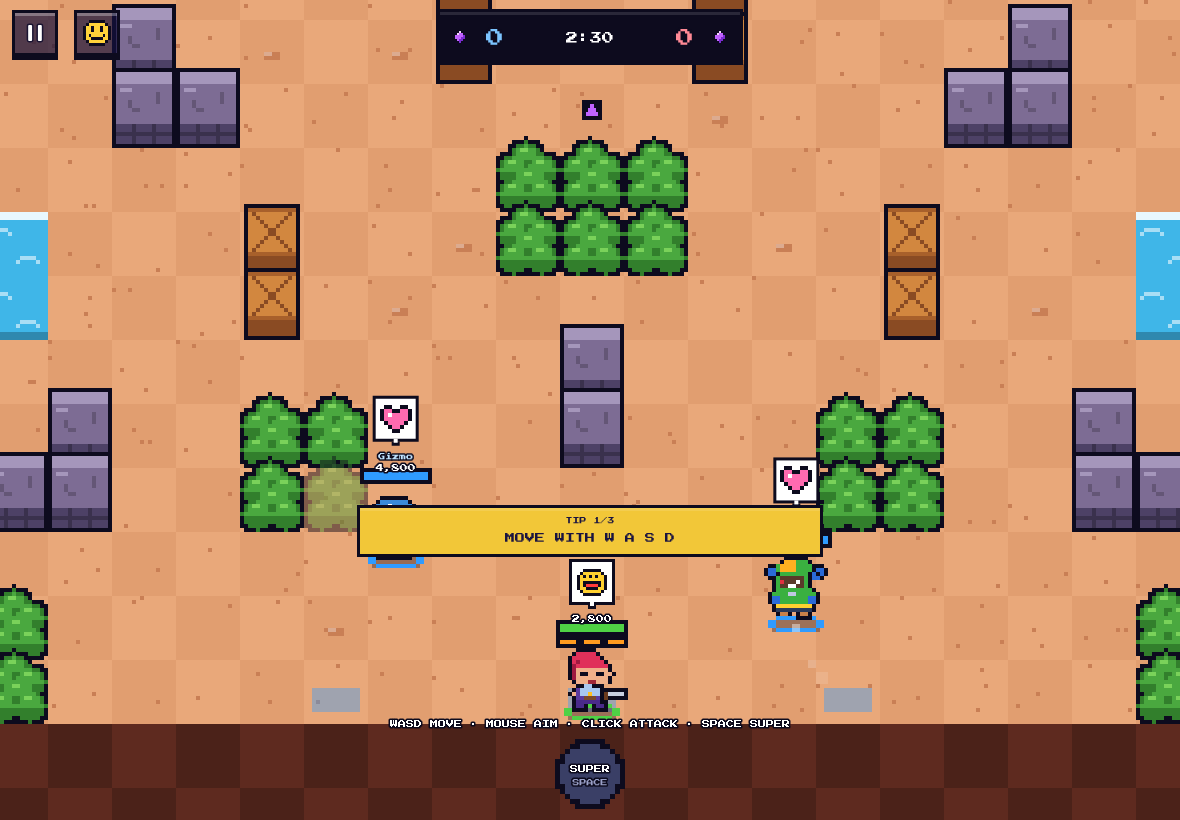
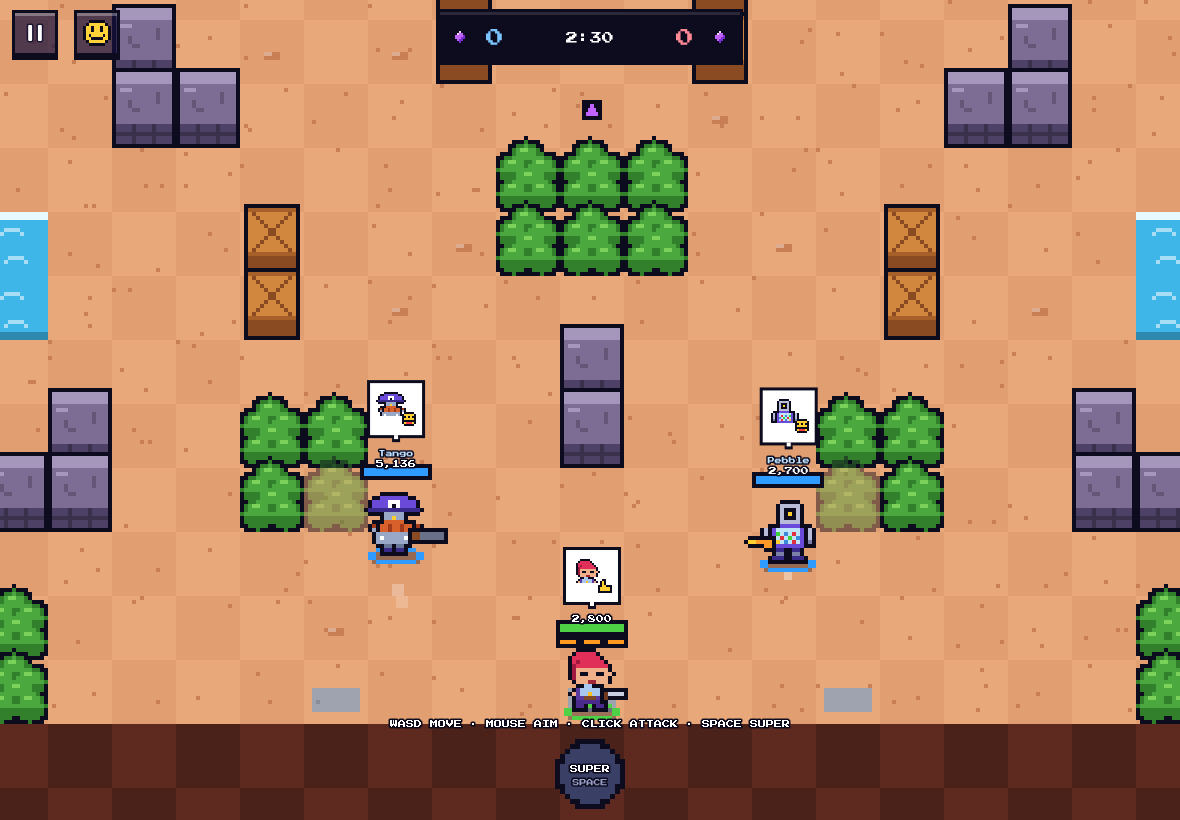
Battle card with prestige and brawler titles, face pins for every brawler, brawlers wave hello
Claude-Session: https://claude.ai/code/session_01FdRq2KxaynozDRfyymzMuF

Changed region(s): [[0.3051, 0.4573, 0.7627, 0.7927], [0.9763, 0.2744, 1.0, 0.3963], [0.0, 0.2744, 0.0305, 0.3963]]

diff --git a/Brawl8Bit.html b/Brawl8Bit.html
@@ -442,6 +442,19 @@ input[type=text]{font-size:13px}
 .bdab .pxi{width:30px} .bdgear .pxi{width:22px} .bdic .pxi{width:26px} .bdst span .pxi{width:20px} .bdheart .pxi{width:26px}
 .aic .pxi{width:20px} .fxabi .pxi{width:28px} .starp b .pxi{width:14px} .bdst em .pxi{width:8px} .fxlvl .pxi,.fxinfo .pxi{width:14px}
 #btnPin .pxi{width:28px}
+#pinBar button{position:relative} #pinBar i,.bdpins i{position:absolute;right:2px;bottom:0;font-family:var(--display);font-size:10px;font-style:normal;color:#2a8a2a;text-shadow:1px 1px 0 #fff}
+.bdpins div{position:relative}
+.bcardx{position:relative;border:6px solid var(--ink);background-size:100% 100%;image-rendering:pixelated;aspect-ratio:3/4;overflow:hidden;box-shadow:0 6px 0 #000}
+.bcx-top{display:flex;justify-content:space-between;align-items:center;padding:8px;background:rgba(13,11,30,.75);border-bottom:4px solid var(--ink)}
+.bcx-top b{font-family:var(--display);font-size:13px;color:#fff;text-shadow:2px 2px 0 #000}
+.bcx-pre{font-family:var(--display);font-size:9px;color:#1a1440;padding:4px 6px;border:3px solid var(--ink)}
+.bcx-title{margin:8px auto 0;width:max-content;max-width:90%;font-family:var(--display);font-size:11px;color:#1a1440;background:#ffc824;border:3px solid var(--ink);padding:4px 8px;text-align:center}
+.bcx-title.off{background:rgba(13,11,30,.6);color:#c9d2ff;font-size:8px}
+.bcx-pic{display:block;width:72%;margin:0 auto;image-rendering:pixelated}
+.bcx-name{position:absolute;left:0;right:0;bottom:70px;text-align:center;font-family:var(--display);font-size:20px;color:#fff;text-shadow:3px 3px 0 #000,-2px -2px 0 #000}
+.bcx-name small{display:block;font-size:10px;color:#ffc93a;margin-top:4px} .bcx-name small svg{width:12px;height:12px}
+.bcx-c1,.bcx-c2{position:absolute;bottom:8px;width:64px;height:auto;border:4px solid var(--ink);image-rendering:pixelated;background:#fff}
+.bcx-c1{left:8px} .bcx-c2{right:8px;height:56px;width:64px}
 </style>
 </head>
 <body>
@@ -622,6 +635,12 @@ input[type=text]{font-size:13px}
     <div class="row" id="bdTabs" style="justify-content:center;margin-bottom:10px"></div>
     <div id="bdBody"></div>
     <div class="btns"><button class="btn grey" id="bdClose">Close</button></div>
+  </div>
+</div>
+<div id="ov-card" class="overlay" hidden>
+  <div class="modal" role="dialog" aria-label="Battle card" style="max-width:420px;background:#1a1440">
+    <div id="cardBody"></div>
+    <div class="btns"><button class="btn grey" id="cardClose">Close</button></div>
   </div>
 </div>
 <div id="ov-confirm" class="overlay" hidden>
@@ -1815,6 +1834,12 @@ const TIPS = {
   bo: 'Throw mines where enemies are coming from, then shoot arrows.',
   pam: 'Stay with your team and heal them with your Super.',
 };
+// each brawler's own title, earned at 1,000 trophies on that brawler
+const BRAWLER_TITLES = { shelly: 'Buckshot Boss', nita: 'Bear Buddy', colt: 'Sharpshooter', bull: 'Bulldozer', primo: 'Luchador', poco: 'Rock Star', brock: 'Rocket Man', jessie: 'Little Inventor',
+  dynamike: 'Boom Boom', spike: 'Prickly Pal', rosa: 'Green Thumb', piper: 'Sweet Sniper', frank: 'Hammer Time', mortis: 'Night Stalker', leon: 'Invisible Kid', crow: 'Toxic Bird', edgar: 'Moody Puncher',
+  bibi: 'Home Run Hitter', max: 'Speedster', tick: 'Tick Tock', barley: 'Bartender', sprout: 'Garden Guard', eightbit: 'Game Over', emz: 'Hairspray Star', gene: 'Wish Granter', rico: 'Bounce Master',
+  darryl: 'Barrel Roller', penny: 'Treasure Hunter', carl: 'Rock Collector', bo: 'Eagle Eye', pam: 'Team Mom' };
+const TITLE_TROPHIES = 1000;
 const LOGIN_REWARDS = [{ coins: 50 }, { gems: 5 }, { coins: 100 }, { drop: 0 }, { coins: 150 }, { gems: 15 }, { drop: 2 }];
 // ---------------- daily event modifiers ----------------
 const EVENT_MODS = { meteor: { name: 'Meteor Shower', desc: 'Meteors fall from the sky. Watch for the red circles!', col: '#ff7a1a' },
@@ -3044,7 +3069,7 @@ function killBrawler(b, killer) {
       textFx(b.x, b.y - 50, st, killer.streak > 1 ? '#ff7a1a' : '#ffd23a', 30 + Math.min(3, killer.streak - 1) * 6);
       if (killer.streak > 1) { G.bigText = { text: st, color: '#ff7a1a', t: 1.2 }; Sound.play('superReady'); }
     }
-    if (killer.ai && Math.random() < 0.3) sendPin(killer, pick(['happy', 'laugh', 'gg']));
+    if (killer.ai && Math.random() < 0.3) sendPin(killer, pick(['happy', 'laugh', 'gg', 'thumbs']));
   }
   if (b.ai && Math.random() < 0.3) sendPin(b, pick(['sad', 'angry']));
   if (G.mode === 'bounty') {
@@ -4399,11 +4424,11 @@ function render() {
     if (G.mode === 'gemgrab' && b.gems > 0) txt(ctx, b.gems, s.x + 4 * k, s.y - 29, 8, '#f2d2ff', 'left', 3);
     if (G.mode === 'bounty') txt(ctx, b.bounty, s.x + 4 * k, s.y - 28, 8, '#ffe040', 'left', 3);
     if (b.pin && b.pin.t > 0) {
-      const pop = Math.min(1, (2.2 - b.pin.t) * 6), sz = Math.round(40 * pop), py = s.y - (b.isPlayer ? 22 : 34) - sz;
+      const pop = Math.min(1, (2.2 - b.pin.t) * 6), sz = Math.round(52 * pop), py = s.y - (b.isPlayer ? 22 : 34) - sz;
       ctx.fillStyle = '#0d0b1e'; ctx.fillRect(s.x - sz / 2 - 3, py - 3, sz + 6, sz + 6); ctx.fillStyle = '#fff'; ctx.fillRect(s.x - sz / 2, py, sz, sz);
       ctx.fillStyle = '#0d0b1e'; ctx.fillRect(s.x - 4, py + sz + 3, 8, 4); ctx.fillStyle = '#fff'; ctx.fillRect(s.x - 2, py + sz, 4, 4);
-      if (b.pin.k === 'gg') { if (pop > 0.6) txt(ctx, 'GG', s.x, py + sz / 2 + 1, 11, '#2a8a2a', 'center', 0); }
-      else { const pc = pinCanvas(b.pin.k), ps = Math.max(1, Math.floor((sz - 6) / pc.width)); ctx.imageSmoothingEnabled = false; ctx.drawImage(pc, s.x - pc.width * ps / 2, py + (sz - pc.height * ps) / 2, pc.width * ps, pc.height * ps); }
+      const pc = facePin(b.id === 'dummy' || b.id === 'robo' || b.id === 'robobig' ? 'tick' : b.id, b.pin.k, b.skin || ''), ps = pop < 1 ? Math.max(1, Math.floor((sz - 4) / pc.width)) : 2; ctx.imageSmoothingEnabled = false; ctx.drawImage(pc, s.x - pc.width * ps / 2, py + (sz - pc.height * ps) / 2, pc.width * ps, pc.height * ps);
+      if (b.pin.k === 'gg' && pop > 0.6) txt(ctx, 'GG', s.x + sz / 4, py + sz - 8, 10, '#2a8a2a', 'center', 2);
     }
   }
   for (const s of G.safes) if (s.hp > 0) { const q = worldToScreen(s.x, s.y - 66); txt(ctx, `${Math.ceil(s.hp / s.maxHp * 100)}%`, q.x, q.y - 6, 9, '#fff'); }
@@ -4701,7 +4726,23 @@ const PINS = {
   heart: ['.kk..kk.', 'kppkkppk', 'kpwppppk', 'kppppppk', '.kppppk.', '..kppk..', '...kk...'],
   gg: null,
 };
-const PIN_LIST = ['happy', 'laugh', 'gg', 'heart', 'angry', 'sad'];
+const PIN_LIST = ['happy', 'laugh', 'gg', 'thumbs', 'angry', 'sad'];
+const PIN_BADGE = {
+  happy: ['.kkkkk.', 'kyyyyyk', 'kykykyk', 'kyyyyyk', 'kkyyykk', 'kykkkyk', '.kkkkk.'],
+  laugh: ['.kkkkk.', 'kyyyyyk', 'kkykykk', 'kyyyyyk', 'kkkkkkk', 'kyrrryk', '.kkkkk.'],
+  angry: ['.rr.rr.', 'rrr.rrr', 'rr...rr', '.......', 'rr...rr', 'rrr.rrr', '.rr.rr.'],
+  sad: ['...k...', '..kbk..', '.kbbbk.', '.kbWbk.', '.kbbbk.', '..kkk..', '.......'],
+  thumbs: ['..kk...', '.kyk...', '.kyk...', 'kkyykkk', 'kyyyyyk', 'kyyyyyk', 'kkkkkkk'],
+};
+const FACEPIN = {};
+// a brawler's own pin: their pixel face with a little expression badge
+function facePin(id, k, skin = '') {
+  const key = id + '|' + k + '|' + skin; if (FACEPIN[key]) return FACEPIN[key];
+  const S_ = getSpr(id, skin), c = document.createElement('canvas'); c.width = 22; c.height = 19; const x = c.getContext('2d');
+  x.drawImage(S_.n[0], 0, 0, 16, 12, 1, 1, 16, 12);
+  if (k !== 'gg') { const bdg = compileRows(PIN_BADGE[k] || PIN_BADGE.happy, EMOTE_PAL); x.drawImage(bdg, 14, 11); }
+  return (FACEPIN[key] = c);
+}
 const PINC = {};
 const pinCanvas = n => PINC[n] || (PINC[n] = compileRows(PINS[n], EMOTE_PAL));
 const EMOTES = {
@@ -4730,9 +4771,9 @@ const POSES = {
 };
 const EMC = {};
 function emoteCanvas(n) { return EMC[n] || (EMC[n] = compileRows(EMOTES[n], EMOTE_PAL)); }
-function drawPosed(c, id, skin, px, py, sc, flip) {
+function drawPosed(c, id, skin, px, py, sc, flip, ex = {}) {
   const S_ = getSpr(id, skin), P = POSES[id] || {}, fl = !!(flip ^ !!P.flip), W_ = S_.w * sc, H_ = S_.h * sc;
-  c.save(); c.translate(px + W_ / 2, py + H_); c.rotate((P.rot || 0) * Math.PI / 180 * (fl ? -1 : 1)); c.translate(-W_ / 2, -H_);
+  c.save(); c.translate(px + W_ / 2, py + H_); c.rotate(((P.rot || 0) + (ex.rot || 0)) * Math.PI / 180 * (fl ? -1 : 1)); c.translate(-W_ / 2, -H_);
   const k = silhouette(id, INK)[fl ? 'f' : 'n']; for (const [dx, dy] of [[-1, 0], [1, 0], [0, -1], [0, 1]]) c.drawImage(k, dx * sc, dy * sc, W_, H_);
   c.drawImage((fl ? S_.f : S_.n)[0], 0, 0, W_, H_);
   if (S_.weapon) {
@@ -4741,7 +4782,7 @@ function drawPosed(c, id, skin, px, py, sc, flip) {
     c.drawImage(fl ? W.f : W.n, fl ? -W.w * sc : 0, -sc, W.w * sc, W.n.height * sc); c.restore();
   }
   c.restore();
-  if (P.em) { const e = emoteCanvas(P.em), es = Math.max(1, Math.round(sc * 0.7)); c.drawImage(e, fl ? px - e.width * es * 0.2 : px + W_ - e.width * es * 0.8, Math.max(2, py - es * 2), e.width * es, e.height * es); }
+  if (P.em && ex.em !== 0) { const e = emoteCanvas(P.em), es = Math.max(1, Math.round(sc * 0.7 * (ex.em || 1))); c.drawImage(e, fl ? px - e.width * es * 0.2 : px + W_ - e.width * es * 0.8, Math.max(2, py - es * 2), e.width * es, e.height * es); }
 }
 function drawPortrait(cv, id, opts = {}) {
   const c = cv.getContext('2d'), w = cv.width, h = cv.height, d = BR[id];
@@ -4766,7 +4807,7 @@ function show(name) {
   App.screen = name;
   for (const [k, sel] of Object.entries(SCREENS)) $(sel).hidden = k !== name;
   const battle = name === 'battle'; cv.hidden = !battle; $('#hud').hidden = !battle; if (R3.gl) R3.gl.hidden = !battle;
-  if (name !== 'detail') $('#ov-bd').hidden = true;
+  if (name !== 'detail') { $('#ov-bd').hidden = true; App.waveFor = null; }
   if (!battle) { updateWallet(); $('#pinBar').hidden = true; if (FX.length && !fxOpen) setTimeout(() => { if (!fxOpen && !fxBlocked()) fxNext(); }, 0); }
   const r = { menu: renderHome, brawlers: renderBrawlers, detail: renderDetail, modes: renderModes, shop: renderShop, quests: renderQuests, pass: renderPass, road: renderRoad, profile: renderProfile, ranked: renderRanked, club: renderClub }[name];
   if (r) r();
@@ -4880,6 +4921,7 @@ const PXI_DEF = {
   info: ['.kkk.', '.kwk.', '.kkk.', 'kkwk.', '.kwk.', '.kwk.', 'kkwkk', 'kwwwk', 'kkkkk'],
   burst: ['...k...', '.k.r.k.', '..rrr..', 'krrwrrk', '..rrr..', '.k.r.k.', '...k...'],
   plus: ['.kkk.', '.kwk.', 'kkwkk', 'kwwwk', 'kkwkk', '.kwk.', '.kkk.'],
+  card: ['kkkkkk', 'kwwwwk', 'kwbbwk', 'kwbbwk', 'kwwwwk', 'kwyywk', 'kwwwwk', 'kkkkkk'],
   diamond: ['...k...', '..kck..', '.kcwck.', 'kcccck.', '.kccck.', '..kck..', '...k...'],
 };
 const PXI_PAL = { k: '#0d0b1e', y: '#ffd23a', r: '#ff4a6a', w: '#ffffff', g: '#3ad13a', p: '#ff6af0', b: '#5ab8ff', c: '#7cd8ff' };
@@ -4971,9 +5013,9 @@ function renderDetail() {
   body.innerHTML = `<div class="bd">
     <div class="bdl">
       <div class="bdname"><b>${d.name.toUpperCase()}</b><span>${d.role.toUpperCase()}</span><i style="color:${c1}">${d.rarity.toUpperCase()}</i></div>
-      <div class="bdtro"><span class="bdrank">${rank}</span><div class="bdtbar"><i style="width:${st.owned ? Math.min(100, (st.trophies - rFrom) / (rTo - rFrom) * 100) : 0}%"></i><b>${icon('trophy')} ${st.trophies}/${rTo}</b></div></div>
+      <div class="bdtro"><span class="bdrank">${rank}</span><div class="bdtbar"><i style="width:${st.owned ? (rank >= 35 ? 100 : Math.min(100, (st.trophies - rFrom) / (rTo - rFrom) * 100)) : 0}%"></i><b>${icon('trophy')} ${rank >= 35 ? `${st.trophies} MAX RANK` : `${st.trophies}/${rTo}`}</b></div></div>
       <p class="bdblurb">${d.blurb}</p>${TIPS[id] ? `<p class="tip"><b>TIP:</b> ${TIPS[id]}</p>` : ''}
-      <div class="bdicons"><button class="bdic" data-tab="info" aria-label="Brawler info">${pxi('info')}</button><button class="bdic" data-tab="pins" aria-label="Pins">${pxi('smile')}</button><button class="bdic" data-tab="skins" aria-label="Skins">${pxi('shirt')}</button></div>
+      <div class="bdicons"><button class="bdic" data-tab="info" aria-label="Brawler info">${pxi('info')}</button><button class="bdic" data-tab="pins" aria-label="Pins">${pxi('smile')}</button><button class="bdic" data-tab="skins" aria-label="Skins">${pxi('shirt')}</button><button class="bdic" data-tab="card" aria-label="Battle card">${pxi('card')}</button></div>
       <div class="bdbtns" id="dBtns"></div>
     </div>
     <div class="bdc"><canvas width="420" height="420" aria-label="${d.name}"></canvas></div>
@@ -4989,11 +5031,20 @@ function renderDetail() {
         <div id="dUp"></div>
       </div>
     </div></div>`;
-  const cv = body.querySelector('.bdc canvas'), cx = cv.getContext('2d'); cx.imageSmoothingEnabled = false;
-  cx.fillStyle = 'rgba(13,11,30,.3)'; cx.beginPath(); cx.ellipse(210, 392, 110, 18, 0, 0, 7); cx.fill();
-  const S_ = getSpr(id, st.skin || ''), sc = 20; drawPosed(cx, id, st.owned ? st.skin || '' : '', 210 - S_.w * sc / 2, 400 - S_.h * sc, sc, false);
-  if (!st.owned) { cx.globalCompositeOperation = 'source-atop'; cx.fillStyle = 'rgba(13,11,30,.55)'; cx.fillRect(0, 0, 420, 420); cx.globalCompositeOperation = 'source-over'; }
-  body.querySelectorAll('[data-tab]').forEach(b => b.onclick = () => openBd(b.dataset.tab));
+  const cv = body.querySelector('.bdc canvas'), cx = cv.getContext('2d');
+  // wave hello: the brawler rocks side to side and hops a little, then settles into their pose
+  const paint = t => {
+    cx.setTransform(1, 0, 0, 1, 0, 0); cx.clearRect(0, 0, 420, 420); cx.imageSmoothingEnabled = false;
+    const k = Math.max(0, 1 - t / 1.3), hop = Math.round(Math.abs(Math.sin(t * 9)) * 12 * k / 4) * 4;
+    cx.fillStyle = 'rgba(13,11,30,.3)'; for (let r = 0; r < 5; r++) cx.fillRect(210 - (110 - r * 16) + r * 4, 384 + r * 4 - 8, (110 - r * 16) * 2, 4);
+    const S_ = getSpr(id, st.skin || ''), sc = 20; drawPosed(cx, id, st.owned ? st.skin || '' : '', 210 - S_.w * sc / 2, 400 - S_.h * sc - hop, sc, false, { rot: Math.sin(t * 10) * 12 * k, em: 1 + 0.6 * k });
+    if (!st.owned) { cx.globalCompositeOperation = 'source-atop'; cx.fillStyle = 'rgba(13,11,30,.55)'; cx.fillRect(0, 0, 420, 420); cx.globalCompositeOperation = 'source-over'; }
+  };
+  const fresh = App.waveFor !== id; App.waveFor = id;
+  if (fresh) { const t0 = performance.now(), step = () => { if (App.screen !== 'detail' || App.waveFor !== id || !cv.isConnected) return; const t = (performance.now() - t0) / 1000; paint(Math.min(t, 1.3)); if (t < 1.3) requestAnimationFrame(step); }; step(); }
+  else paint(1.3);
+  body.querySelector('[data-tab="card"]').onclick = () => openCard(id);
+  body.querySelectorAll('[data-tab]:not([data-tab="card"])').forEach(b => b.onclick = () => openBd(b.dataset.tab));
   body.querySelectorAll('[data-ab]').forEach(b => b.onclick = () => openBd('info'));
   body.querySelectorAll('[data-gear]').forEach(b => b.onclick = () => openBd('gears'));
   const btns = $('#dBtns'), mk = (label, cls, fn, dis, where = btns) => { const b = document.createElement('button'); b.className = 'btn ' + cls; b.innerHTML = label; b.onclick = fn; if (dis) b.disabled = true; where.appendChild(b); return b; };
@@ -5015,6 +5066,25 @@ function renderDetail() {
   }, false, up);
   if (!$('#ov-bd').hidden) openBd(App.bdTab);
 }
+// Battle card: your name, prestige (mastery), the brawler on its rarity background, a title, and two little cards in the corners
+function openCard(id) {
+  const d = BR[id], st = S.brawlers[id], [c1, c2] = RARITY_BG[d.rarity] || RARITY_BG.Rare, ml = masteryLvl(st.mastery || 0);
+  const title = BRAWLER_TITLES[id] && st.trophies >= TITLE_TROPHIES ? BRAWLER_TITLES[id] : '';
+  const MCOL = ['#8a90a8', '#c0602a', '#c0602a', '#c0602a', '#c8d0e0', '#c8d0e0', '#c8d0e0', '#ffc824', '#ffc824', '#ffc824', '#ff4ab0'];
+  const ov = $('#ov-card'); ov.hidden = false;
+  $('#cardBody').innerHTML = `<div class="bcardx" style="background-image:url(${pixGlowURL(c1, c2)})">
+      <div class="bcx-top"><b>${S.name.replace(/[<>]/g, '')}</b><span class="bcx-pre" style="background:${MCOL[ml]}">${MASTERY_NAMES[ml].toUpperCase()}</span></div>
+      ${title ? `<div class="bcx-title">${title.toUpperCase()}</div>` : `<div class="bcx-title off">Title at ${fmt(TITLE_TROPHIES)} trophies</div>`}
+      <canvas class="bcx-pic" width="320" height="320"></canvas>
+      <div class="bcx-name">${d.name.toUpperCase()}<small>${icon('trophy')} ${st.trophies}</small></div>
+      <canvas class="bcx-c1" width="64" height="64"></canvas><canvas class="bcx-c2" width="88" height="76"></canvas>
+    </div>`;
+  const pc = $('#cardBody .bcx-pic').getContext('2d'); pc.imageSmoothingEnabled = false; const S_ = getSpr(id, st.skin || '');
+  drawPosed(pc, id, st.skin || '', 160 - S_.w * 8, 300 - S_.h * 16, 16, false);
+  drawPortrait($('#cardBody .bcx-c1'), BR_LIST[S.avatar % BR_LIST.length].id, { scale: 2.2 });
+  const c2x = $('#cardBody .bcx-c2').getContext('2d'); c2x.imageSmoothingEnabled = false; c2x.fillStyle = '#fff'; c2x.fillRect(0, 0, 88, 76); c2x.drawImage(facePin(id, 'happy', st.skin || ''), 0, 0, 88, 76);
+  $('#cardClose').onclick = () => { ov.hidden = true; };
+}
 // Pop-up panel on the brawler screen: full info, pins, skins and gears
 function openBd(tab) {
   const id = App.detailId || S.selected, d = BR[id], st = S.brawlers[id], m = levelMult(st.level); App.bdTab = tab;
@@ -5032,7 +5102,7 @@ function openBd(tab) {
       <div style="margin-top:12px"><b style="font-family:var(--display);font-size:11px">Mastery: ${MASTERY_NAMES[masteryLvl(st.mastery || 0)]}</b><div class="bar purple" style="margin-top:6px"><i style="width:${(() => { const l = masteryLvl(st.mastery || 0); return l >= 10 ? 100 : ((st.mastery || 0) - MASTERY[l]) / (MASTERY[l + 1] - MASTERY[l]) * 100; })()}%"></i></div><p style="font-size:8px;margin-top:4px">${fmt(st.mastery || 0)} mastery points.</p></div>`;
   } else if (tab === 'pins') {
     B_.innerHTML = `<p style="font-size:10px;line-height:1.7">Use pins in battle with the smiley button (or press T on a keyboard).</p><div class="bdpins"></div>`;
-    for (const k of PIN_LIST) { const e = document.createElement('div'); if (k === 'gg') e.textContent = 'GG'; else { const c = document.createElement('canvas'), pc = pinCanvas(k); c.width = pc.width * 6; c.height = pc.height * 6; const x = c.getContext('2d'); x.imageSmoothingEnabled = false; x.drawImage(pc, 0, 0, c.width, c.height); e.appendChild(c); } B_.querySelector('.bdpins').appendChild(e); }
+    for (const k of PIN_LIST) { const e = document.createElement('div'); e.appendChild(pinImg(id, k, st.skin || '', 70)); if (k === 'gg') { const t = document.createElement('i'); t.textContent = 'GG'; e.appendChild(t); } B_.querySelector('.bdpins').appendChild(e); }
   } else if (tab === 'skins') { B_.innerHTML = '<div id="skinBox"></div>'; renderSkins(id, st); }
   else { B_.innerHTML = '<div id="gearBox"></div>'; renderGears(id, st); }
 }
@@ -5312,7 +5382,11 @@ function startMatch(ranked = false, picked = false) {
   show('battle'); resize();
   Sound.music('battle');
 }
-function togglePins(force) { const bar = $('#pinBar'); bar.hidden = force !== undefined ? !force : !bar.hidden; }
+function pinImg(id, k, skin, size) { const pc = facePin(id, k, skin), c = document.createElement('canvas'); c.width = pc.width * 4; c.height = pc.height * 4; const x = c.getContext('2d'); x.imageSmoothingEnabled = false; x.drawImage(pc, 0, 0, c.width, c.height); c.style.width = size + 'px'; c.style.imageRendering = 'pixelated'; return c; }
+function togglePins(force) {
+  const bar = $('#pinBar'); bar.hidden = force !== undefined ? !force : !bar.hidden;
+  if (!bar.hidden && G) { bar.innerHTML = ''; PIN_LIST.forEach((k, i) => { const b = document.createElement('button'); b.setAttribute('aria-label', 'Pin ' + k); b.title = `${k} (${i + 1})`; b.appendChild(pinImg(G.player.id, k, G.player.skin || '', 40)); if (k === 'gg') { const t = document.createElement('i'); t.textContent = 'GG'; b.appendChild(t); } b.onclick = () => playerPin(k); bar.appendChild(b); }); }
+}
 function playerPin(k) { if (G && sendPin(G.player, k)) togglePins(false); }
 function togglePause(force) {
   if (!G || G.over) return;
@@ -5358,6 +5432,7 @@ function finishMatch() {
       if (l === 10) { const t = 'Master of ' + BR[pid].name; if (!S.titles.includes(t)) S.titles.push(t); extraLines.push(`New title: ${t}!`); }
     }
     clubAfterMatch(res === 'win');
+    const bt = BRAWLER_TITLES[pid]; if (bt && bs.trophies >= TITLE_TROPHIES && !S.titles.includes(bt)) { S.titles.push(bt); extraLines.push(`New title: ${bt}!`); }
   }
   S.coins += coins; S.passXp += xp; if (checkPassBonus()) extraLines0.push('Brawl Pass bonus: Star Drop!'); S.bestTrophies = Math.max(S.bestTrophies, totalTrophies());
   const win = res === 'win', st = S.stats, gs = g.stats;
@@ -5539,9 +5614,7 @@ function bindUI() {
   $('#btnPause').onclick = () => togglePause(true);
   $('#bdClose').onclick = () => { $('#ov-bd').hidden = true; if (App.screen === 'detail') renderDetail(); };
   $('#btnPin').innerHTML = pxi('smile'); $('#btnPin').onclick = () => togglePins();
-  PIN_LIST.forEach((k, i) => { const b = document.createElement('button'); b.setAttribute('aria-label', 'Pin ' + k); b.title = `${k} (${i + 1})`;
-    if (k === 'gg') b.textContent = 'GG'; else { const c = document.createElement('canvas'), pc = pinCanvas(k); c.width = pc.width * 4; c.height = pc.height * 4; const x = c.getContext('2d'); x.imageSmoothingEnabled = false; x.drawImage(pc, 0, 0, c.width, c.height); b.appendChild(c); }
-    b.onclick = () => playerPin(k); $('#pinBar').appendChild(b); });
+
   $('#pResume').onclick = () => togglePause(false);
   $('#pSound').onclick = () => { S.settings.muted = !S.settings.muted; save(); syncSettings(); };
   $('#pSettings').onclick = openSettings;
